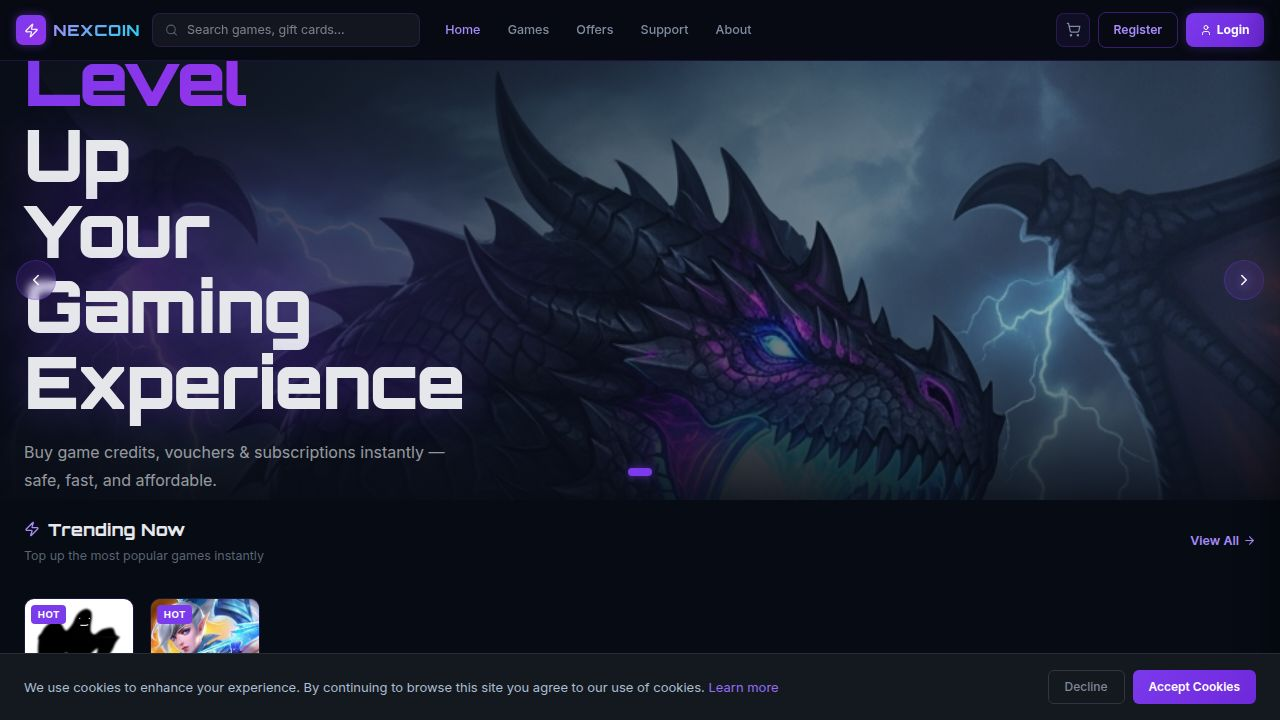
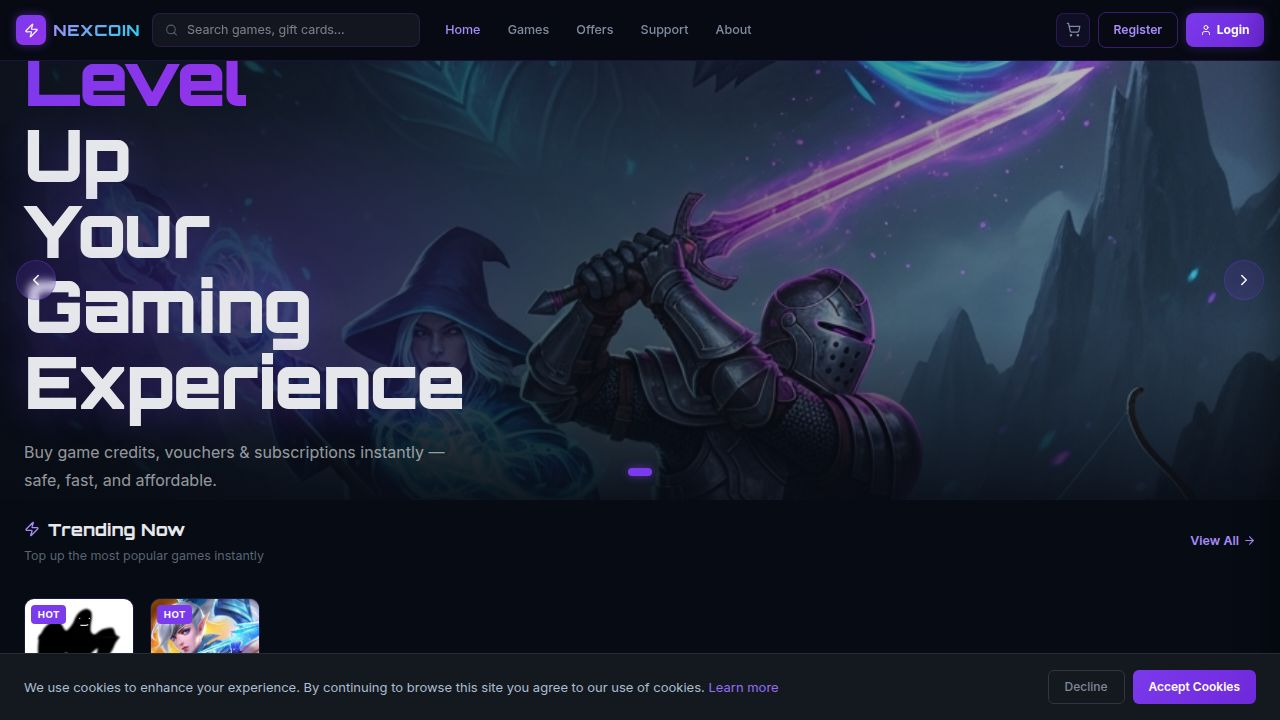
Allow hero section to always render and display background image
Remove the `isSuccess` check in the HeroSlider component, ensuring it always renders. This prevents the hero section from being hidden while data is loading, and ensures the background image displays once site settings are available.

Replit-Commit-Author: Agent
Replit-Commit-Session-Id: d7f5ce8a-152f-4243-9615-fa55e3968a06
Replit-Commit-Checkpoint-Type: full_checkpoint
Replit-Commit-Event-Id: a42d1da5-6b56-40b7-94ae-e2987a508bca
Replit-Commit-Screenshot-Url: https://storage.googleapis.com/screenshot-production-us-central1/b864bc13-ad3d-48f7-bc40-49167da18dc4/d7f5ce8a-152f-4243-9615-fa55e3968a06/q61x0hZ
Replit-Helium-Checkpoint-Created: true

diff --git a/client/src/pages/Home.tsx b/client/src/pages/Home.tsx
@@ -23,7 +23,7 @@ function HeroSlider() {
   const [current, setCurrent] = useState(0);
   const timerRef = useRef<ReturnType<typeof setInterval> | null>(null);
 
-  const { data: apiSliders = [], isSuccess } = useQuery<any[]>({
+  const { data: apiSliders = [] } = useQuery<any[]>({
     queryKey: ["/api/hero-sliders/active"],
     staleTime: 60_000,
   });
@@ -76,8 +76,6 @@ function HeroSlider() {
     if (timerRef.current) clearInterval(timerRef.current);
     startTimer();
   }
-
-  if (!isSuccess) return null;
 
   const slide = SLIDES[current] ?? SLIDES[0];
 
